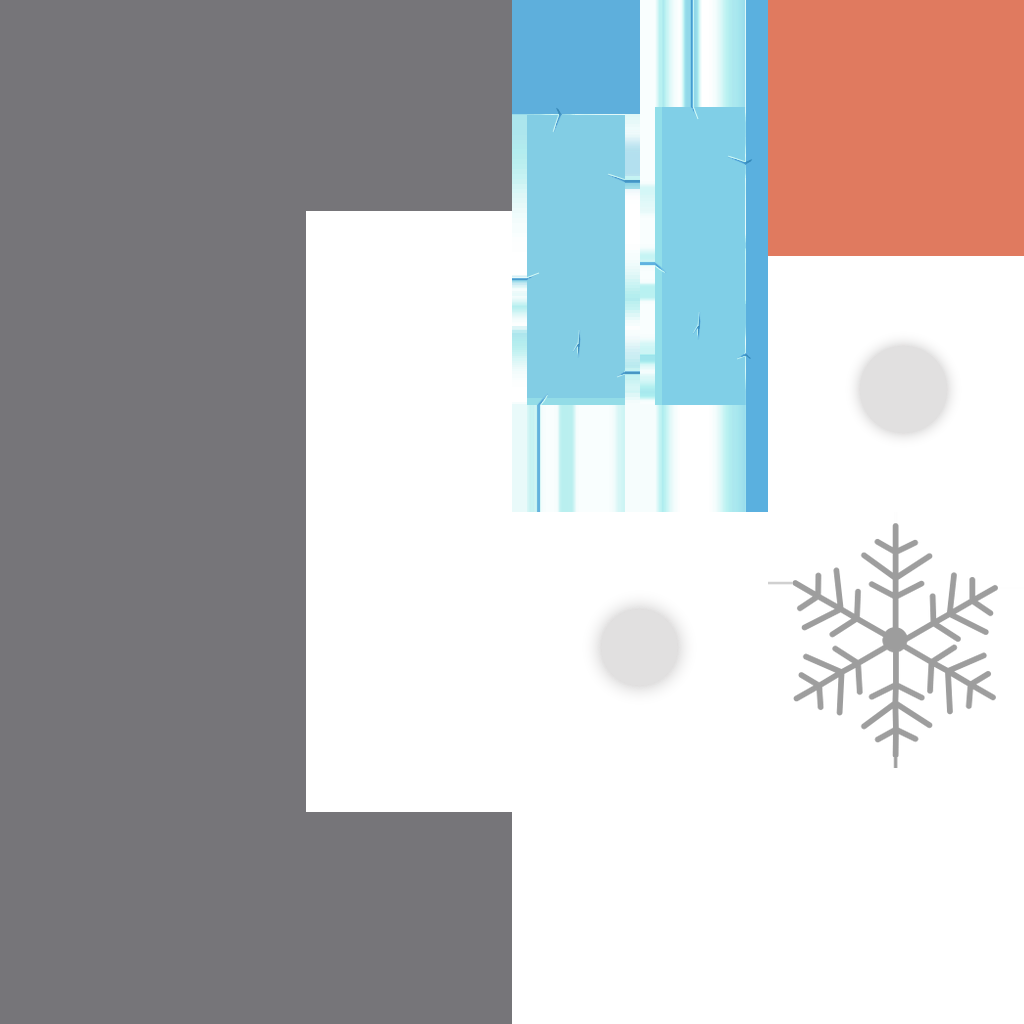
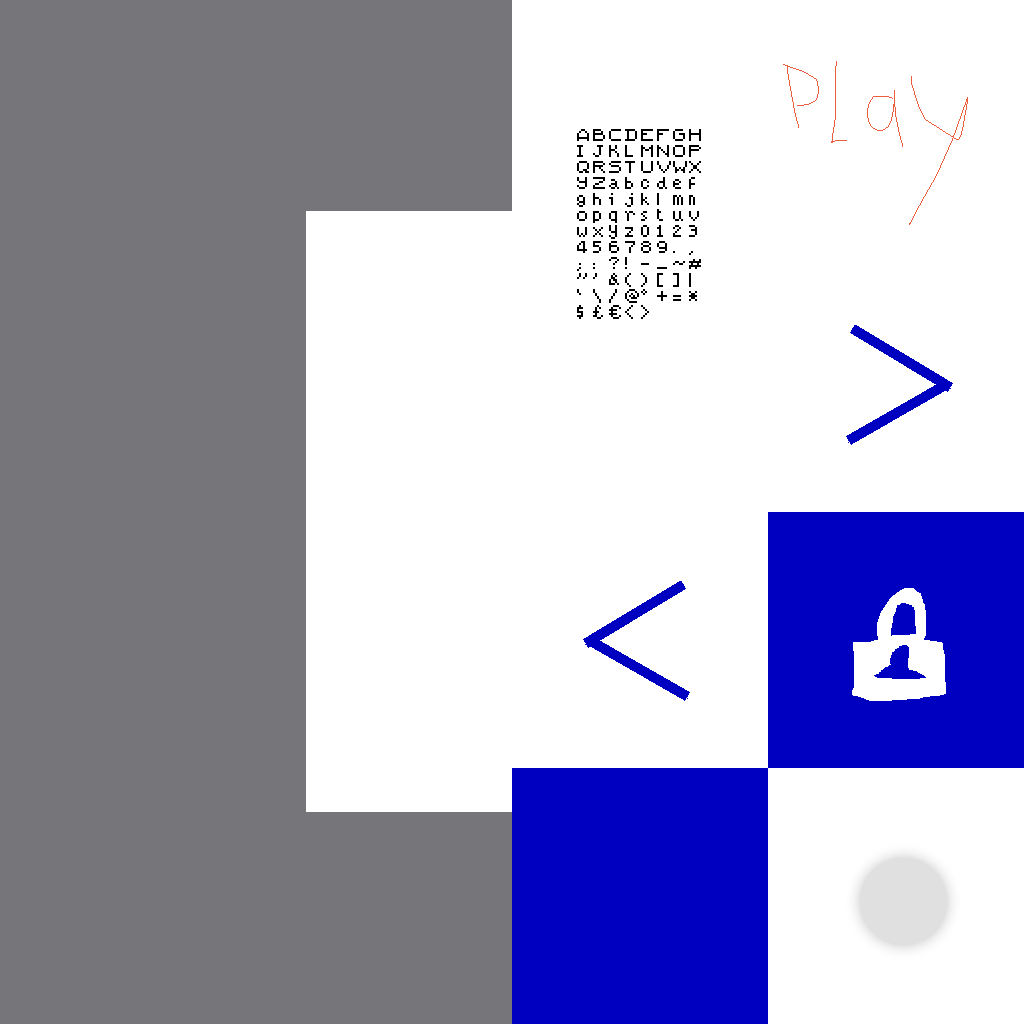
040122
1934

diff --git a/scripts/c3runtime.js b/scripts/c3runtime.js
@@ -4295,21 +4295,14 @@ self.C3_GetObjectRefTable = function () {
 		C3.Plugins.Audio,
 		C3.Behaviors.MoveTo,
 		C3.Plugins.System.Cnds.OnLayoutStart,
-		C3.Plugins.Arr.Acts.SetXY,
-		C3.Plugins.AJAX.Acts.RequestFile,
-		C3.Plugins.Sprite.Acts.Destroy,
-		C3.Plugins.Spritefont2.Acts.SetText,
-		C3.Plugins.System.Acts.Wait,
-		C3.Plugins.AJAX.Cnds.OnComplete,
-		C3.Plugins.System.Cnds.For,
 		C3.Plugins.Arr.Acts.SetInstanceVar,
-		C3.Plugins.System.Exps.tokenat,
-		C3.Plugins.AJAX.Exps.LastData,
-		C3.Plugins.System.Exps.loopindex,
-		C3.Plugins.System.Exps.int,
 		C3.Plugins.Arr.Exps.At,
+		C3.Plugins.Spritefont2.Acts.SetText,
+		C3.Plugins.System.Cnds.For,
 		C3.Plugins.Arr.Cnds.CompareXY,
+		C3.Plugins.System.Exps.loopindex,
 		C3.Plugins.System.Acts.CreateObject,
+		C3.Plugins.System.Exps.int,
 		C3.Plugins.Sprite.Acts.SetAnimFrame,
 		C3.Plugins.Touch.Cnds.OnTouchStart,
 		C3.Plugins.Touch.Cnds.IsTouchingObject,
@@ -4326,12 +4319,12 @@ self.C3_GetObjectRefTable = function () {
 		C3.Behaviors.EightDir.Acts.SetSpeed,
 		C3.Plugins.Sprite.Acts.SetPos,
 		C3.Plugins.Audio.Acts.PlayByName,
+		C3.Plugins.Sprite.Cnds.CompareX,
+		C3.Plugins.Sprite.Cnds.CompareY,
 		C3.Plugins.Sprite.Cnds.CompareFrame,
 		C3.Behaviors.EightDir.Acts.SetMaxSpeed,
-		C3.Plugins.Sprite.Cnds.CompareX,
 		C3.Behaviors.EightDir.Acts.SimulateControl,
-		C3.Plugins.Sprite.Cnds.CompareY,
-		C3.Plugins.Arr.Acts.AddInstanceVar,
+		C3.Plugins.System.Cnds.IsGroupActive,
 		C3.Plugins.Mouse.Cnds.IsOverObject,
 		C3.Plugins.Sprite.Acts.SetOpacity,
 		C3.Plugins.System.Cnds.Else,
@@ -4340,10 +4333,32 @@ self.C3_GetObjectRefTable = function () {
 		C3.Behaviors.MoveTo.Acts.MoveToPosition,
 		C3.Behaviors.MoveTo.Cnds.OnArrived,
 		C3.Plugins.Sprite.Acts.MoveToLayer,
-		C3.Plugins.System.Cnds.EveryTick,
-		C3.Plugins.Sprite.Acts.SetEffectParam,
-		C3.Plugins.System.Exps.viewporttop,
-		C3.Plugins.System.Exps.viewportbottom
+		C3.Plugins.Sprite.Acts.Destroy,
+		C3.Plugins.Arr.Acts.AddInstanceVar,
+		C3.Plugins.System.Acts.GoToLayout,
+		C3.Plugins.System.Acts.RestartLayout,
+		C3.Plugins.Arr.Cnds.CompareInstanceVar,
+		C3.Plugins.System.Acts.SetVar,
+		C3.Plugins.Spritefont2.Acts.Destroy,
+		C3.Plugins.System.Cnds.Repeat,
+		C3.Plugins.System.Acts.Wait,
+		C3.Plugins.Sprite.Exps.IID,
+		C3.Plugins.Spritefont2.Acts.SetInstanceVar,
+		C3.Plugins.Spritefont2.Exps.IID,
+		C3.Plugins.Touch.Cnds.OnTouchObject,
+		C3.Plugins.System.Exps.max,
+		C3.Plugins.System.Exps.min,
+		C3.Plugins.Sprite.Cnds.CompareInstanceVar,
+		C3.Plugins.Spritefont2.Cnds.CompareInstanceVar,
+		C3.Plugins.Spritefont2.Acts.SetVisible,
+		C3.Plugins.Sprite.Acts.SetVisible,
+		C3.Plugins.Arr.Acts.SetXY,
+		C3.Plugins.AJAX.Acts.RequestFile,
+		C3.Plugins.AJAX.Cnds.OnComplete,
+		C3.Plugins.Arr.Acts.SetSize,
+		C3.Plugins.System.Exps.tokenat,
+		C3.Plugins.AJAX.Exps.LastData,
+		C3.Plugins.Arr.Acts.Insert
 	];
 };
 self.C3_JsPropNameTable = [
@@ -4351,16 +4366,21 @@ self.C3_JsPropNameTable = [
 	{currentLevel: 0},
 	{currentLevelStr: 0},
 	{turns: 0},
+	{currentPage: 0},
+	{levelsOnPage: 0},
+	{turnsDone: 0},
 	{levelData: 0},
 	{picked: 0},
 	{offsetX: 0},
 	{offsetY: 0},
+	{takeX: 0},
+	{takeY: 0},
 	{Solid: 0},
 	{"8Direction": 0},
 	{Tween: 0},
 	{block: 0},
 	{AJAX: 0},
-	{Sprite: 0},
+	{pole: 0},
 	{TiledBackground: 0},
 	{walls: 0},
 	{Sine: 0},
@@ -4372,19 +4392,25 @@ self.C3_JsPropNameTable = [
 	{Particles3: 0},
 	{SpriteFont: 0},
 	{Mouse: 0},
-	{Sprite2: 0},
+	{gradient: 0},
 	{Audio: 0},
 	{SpriteFont2: 0},
 	{MoveTo: 0},
 	{effect: 0},
 	{mirror: 0},
 	{stol: 0},
-	{Sprite3: 0},
+	{fon: 0},
+	{level: 0},
+	{levelSelector: 0},
+	{pageScroll: 0},
+	{levelNumber: 0},
+	{play: 0},
 	{buttons: 0},
 	{offsetXUI: 0},
 	{offsetYUI: 0},
 	{levelCount: 0},
-	{tileSize: 0}
+	{tileSize: 0},
+	{levelsUnlocked: 0}
 ];
 }
 
@@ -4485,37 +4511,22 @@ function or(l, r)
 }
 
 self.C3_ExpressionFuncs = [
+		p => {
+			const n0 = p._GetNode(0);
+			const n1 = p._GetNode(1);
+			return () => n0.ExpObject(n1.ExpInstVar(), 0);
+		},
 		() => 0,
-		() => 35,
-		() => 3,
-		() => 34,
-		() => 2,
-		() => "level",
 		p => {
 			const n0 = p._GetNode(0);
 			return () => and("уровень ", (n0.ExpInstVar() + 1));
 		},
-		() => 0.1,
 		p => {
 			const n0 = p._GetNode(0);
 			return () => and("target ", n0.ExpInstVar());
 		},
-		() => "levels",
-		p => {
-			const v0 = p._GetNode(0).GetVar();
-			return () => (v0.GetValue() - 1);
-		},
-		p => {
-			const f0 = p._GetNode(0).GetBoundMethod();
-			const f1 = p._GetNode(1).GetBoundMethod();
-			const f2 = p._GetNode(2).GetBoundMethod();
-			return () => f0(f1(), f2(), "\n");
-		},
-		p => {
-			const f0 = p._GetNode(0).GetBoundMethod();
-			return () => f0();
-		},
-		() => "levelData",
+		() => "level",
+		() => 1,
 		() => 36,
 		p => {
 			const n0 = p._GetNode(0);
@@ -4523,18 +4534,10 @@ self.C3_ExpressionFuncs = [
 		},
 		p => {
 			const f0 = p._GetNode(0).GetBoundMethod();
-			const f1 = p._GetNode(1).GetBoundMethod();
-			const n2 = p._GetNode(2);
-			const f3 = p._GetNode(3).GetBoundMethod();
-			return () => f0(f1(n2.ExpInstVar(), f3(), ","));
+			return () => f0();
 		},
-		p => {
-			const n0 = p._GetNode(0);
-			const n1 = p._GetNode(1);
-			return () => n0.ExpObject(n1.ExpInstVar(), 0);
-		},
-		() => 1,
 		() => 9,
+		() => 2,
 		p => {
 			const f0 = p._GetNode(0).GetBoundMethod();
 			const v1 = p._GetNode(1).GetVar();
@@ -4563,6 +4566,10 @@ self.C3_ExpressionFuncs = [
 		},
 		p => {
 			const n0 = p._GetNode(0);
+			return () => n0.ExpObject();
+		},
+		p => {
+			const n0 = p._GetNode(0);
 			const v1 = p._GetNode(1).GetVar();
 			const v2 = p._GetNode(2).GetVar();
 			const v3 = p._GetNode(3).GetVar();
@@ -4570,8 +4577,13 @@ self.C3_ExpressionFuncs = [
 			const v5 = p._GetNode(5).GetVar();
 			return () => (((Math.floor(((n0.ExpObject() - v1.GetValue()) / v2.GetValue())) * v3.GetValue()) + (v4.GetValue() / 2)) + v5.GetValue());
 		},
-		() => "1",
+		() => "5",
 		() => "",
+		p => {
+			const n0 = p._GetNode(0);
+			return () => (n0.ExpInstVar() + 1);
+		},
+		() => 3,
 		p => {
 			const n0 = p._GetNode(0);
 			const n1 = p._GetNode(1);
@@ -4599,11 +4611,7 @@ self.C3_ExpressionFuncs = [
 			const n4 = p._GetNode(4);
 			return () => (C3.distanceTo(n0.ExpObject(), n1.ExpObject(), n2.ExpObject(), (f3() - n4.ExpInstVar())) * 30);
 		},
-		() => -1,
-		p => {
-			const n0 = p._GetNode(0);
-			return () => and("taget ", n0.ExpInstVar());
-		},
+		() => "graphic tips",
 		() => 100,
 		() => 30,
 		p => {
@@ -4613,13 +4621,64 @@ self.C3_ExpressionFuncs = [
 		() => 720,
 		() => 680,
 		() => -600,
-		() => "ReflectY",
+		() => "go_PN",
+		p => {
+			const v0 = p._GetNode(0).GetVar();
+			return () => v0.GetValue();
+		},
+		() => 610,
+		p => {
+			const f0 = p._GetNode(0).GetBoundMethod();
+			const n1 = p._GetNode(1);
+			return () => f0((n1.ExpInstVar() + 1.5));
+		},
+		p => {
+			const f0 = p._GetNode(0).GetBoundMethod();
+			return () => (((f0() % 3) * 180) + 180);
+		},
+		p => {
+			const f0 = p._GetNode(0).GetBoundMethod();
+			const f1 = p._GetNode(1).GetBoundMethod();
+			return () => ((f0((f1() / 3)) * 180) + 180);
+		},
 		p => {
 			const n0 = p._GetNode(0);
+			const n1 = p._GetNode(1);
+			return () => ((n0.ExpInstVar() * 15) + n1.ExpObject());
+		},
+		p => {
+			const f0 = p._GetNode(0).GetBoundMethod();
+			const n1 = p._GetNode(1);
+			return () => f0((n1.ExpInstVar() - 1), 0);
+		},
+		p => {
+			const f0 = p._GetNode(0).GetBoundMethod();
+			const n1 = p._GetNode(1);
+			const v2 = p._GetNode(2).GetVar();
+			const n3 = p._GetNode(3);
+			return () => f0((n1.ExpInstVar() + 1), Math.floor(((v2.GetValue() - 1) / n3.ExpInstVar())));
+		},
+		() => 35,
+		() => 34,
+		() => 37,
+		() => "levels",
+		p => {
+			const v0 = p._GetNode(0).GetVar();
+			return () => (v0.GetValue() - 1);
+		},
+		p => {
+			const f0 = p._GetNode(0).GetBoundMethod();
 			const f1 = p._GetNode(1).GetBoundMethod();
 			const f2 = p._GetNode(2).GetBoundMethod();
+			return () => f0(f1(), f2(), "\n");
+		},
+		() => "levelData",
+		p => {
+			const f0 = p._GetNode(0).GetBoundMethod();
+			const f1 = p._GetNode(1).GetBoundMethod();
+			const n2 = p._GetNode(2);
 			const f3 = p._GetNode(3).GetBoundMethod();
-			return () => (1 - ((n0.ExpObject() - f1(0)) / (f2(0) - f3(0))));
+			return () => f0(f1(n2.ExpInstVar(), f3(), ","));
 		}
 ];
 
